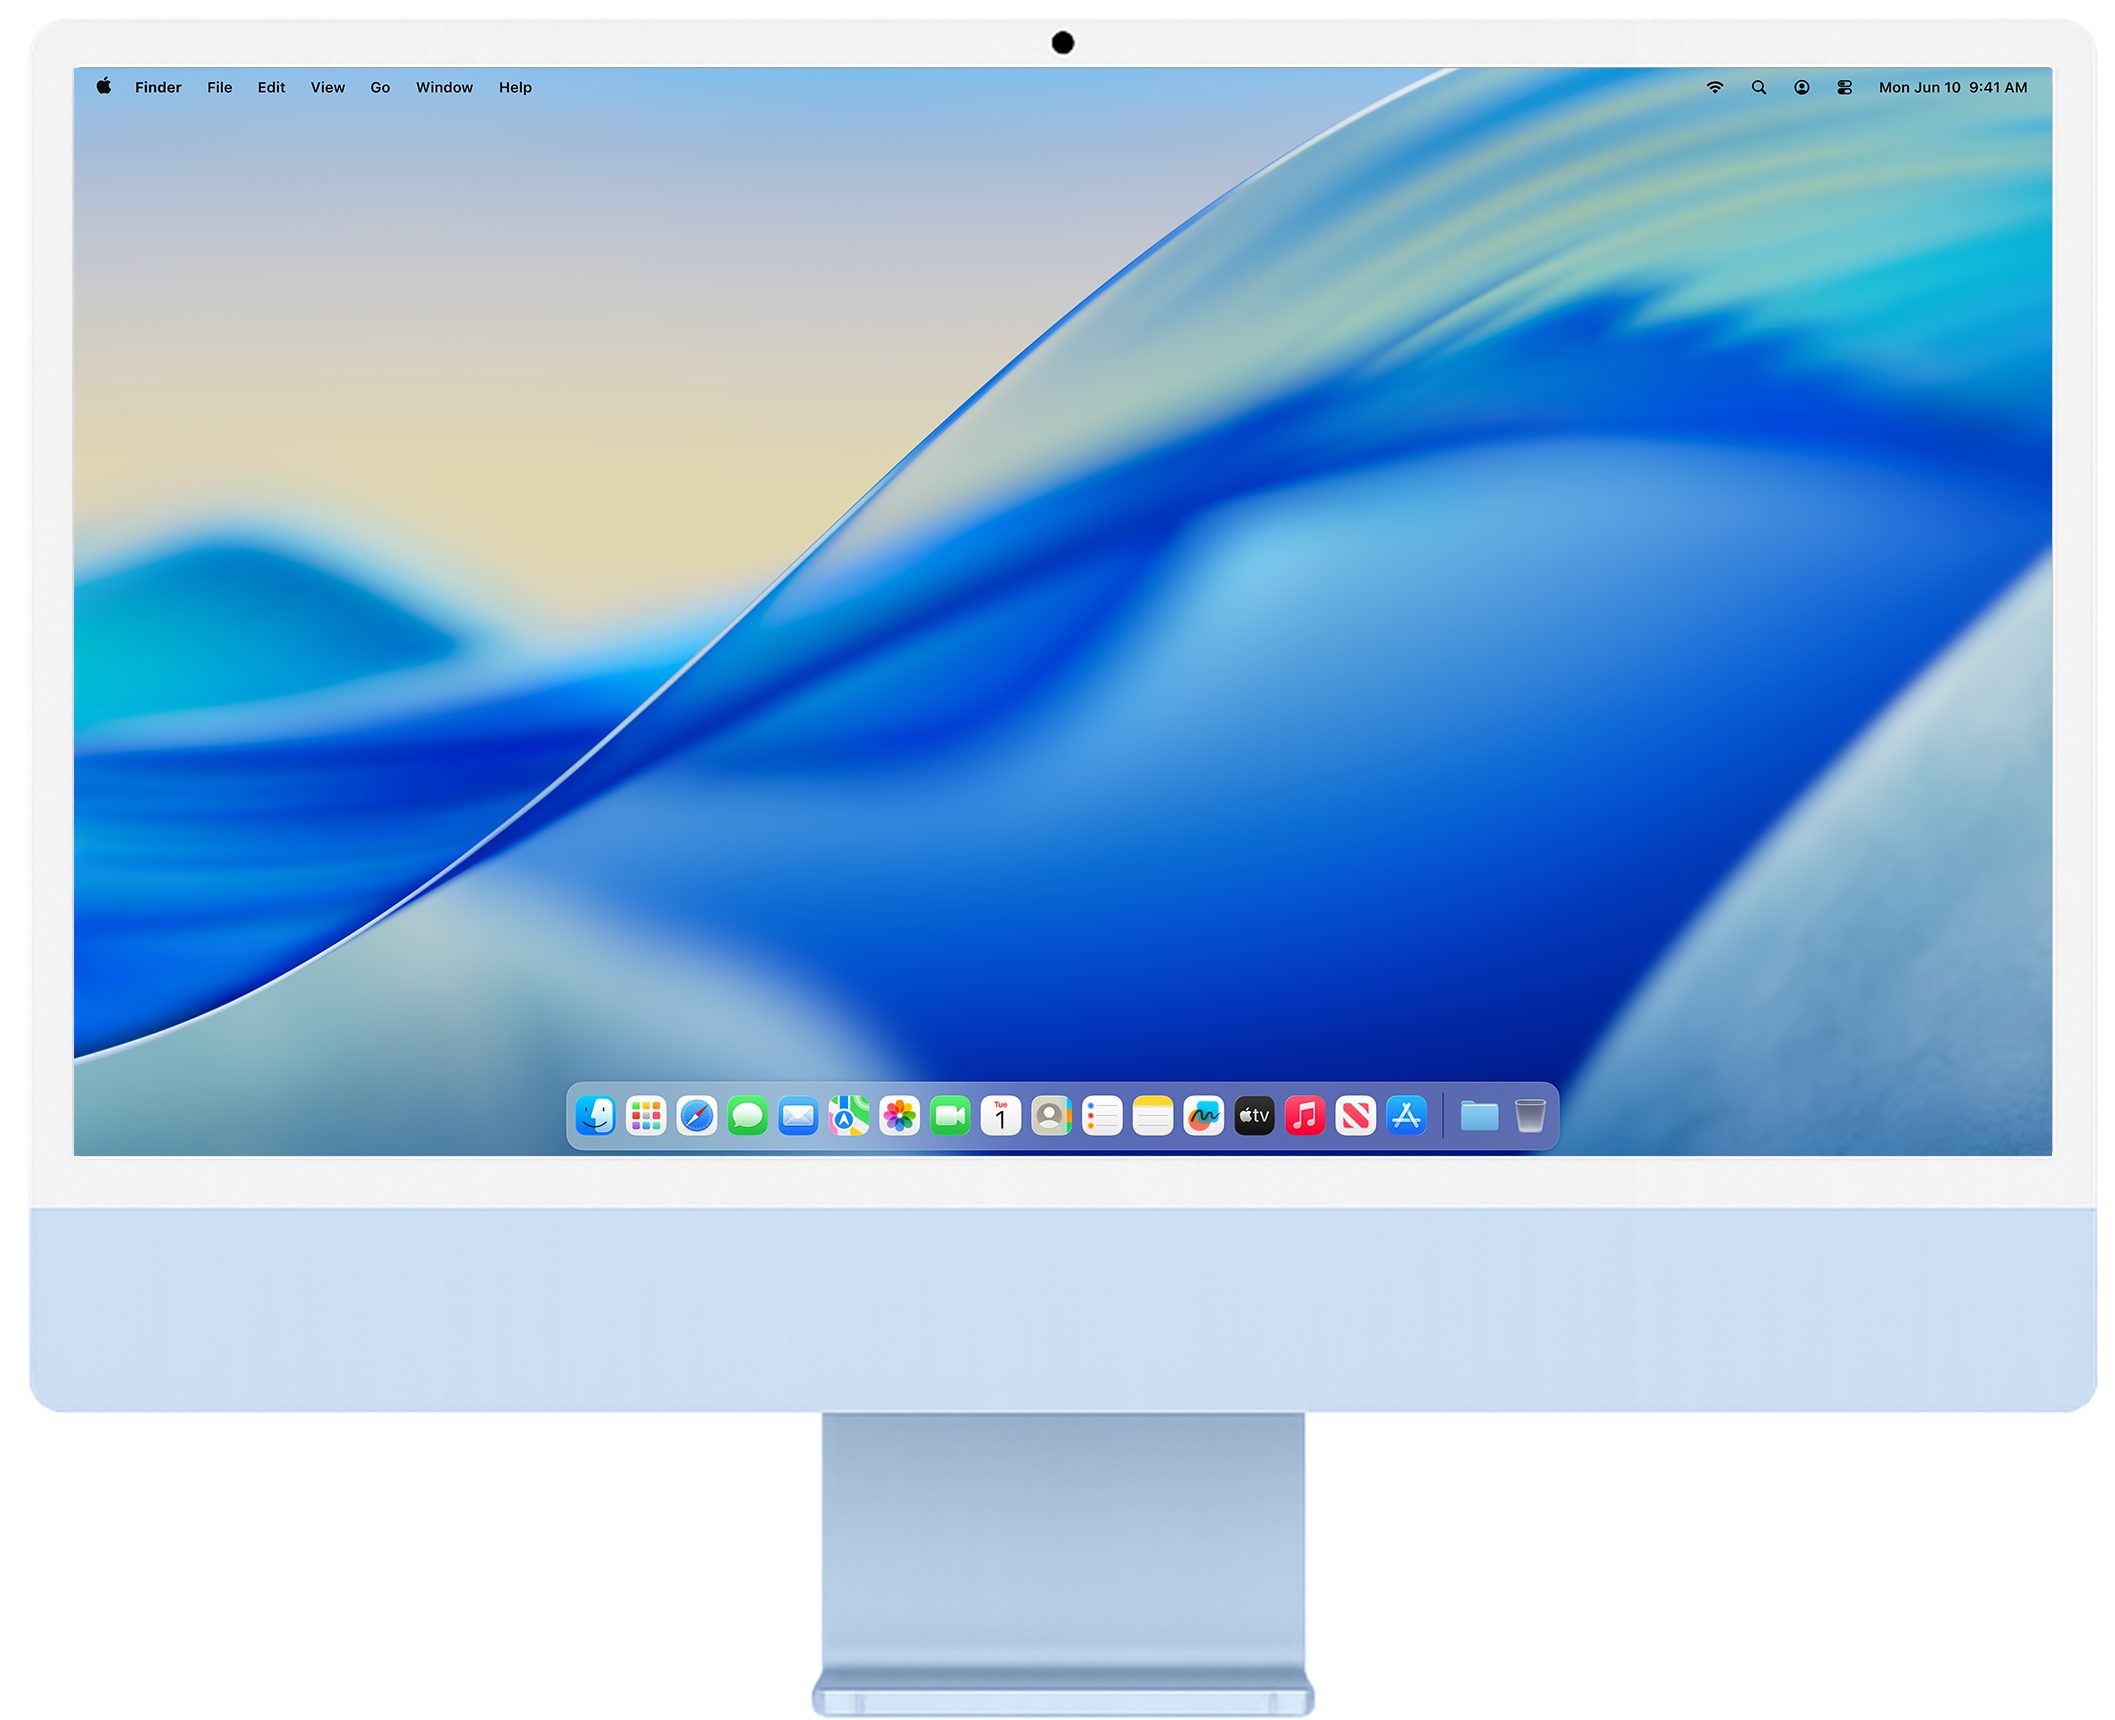
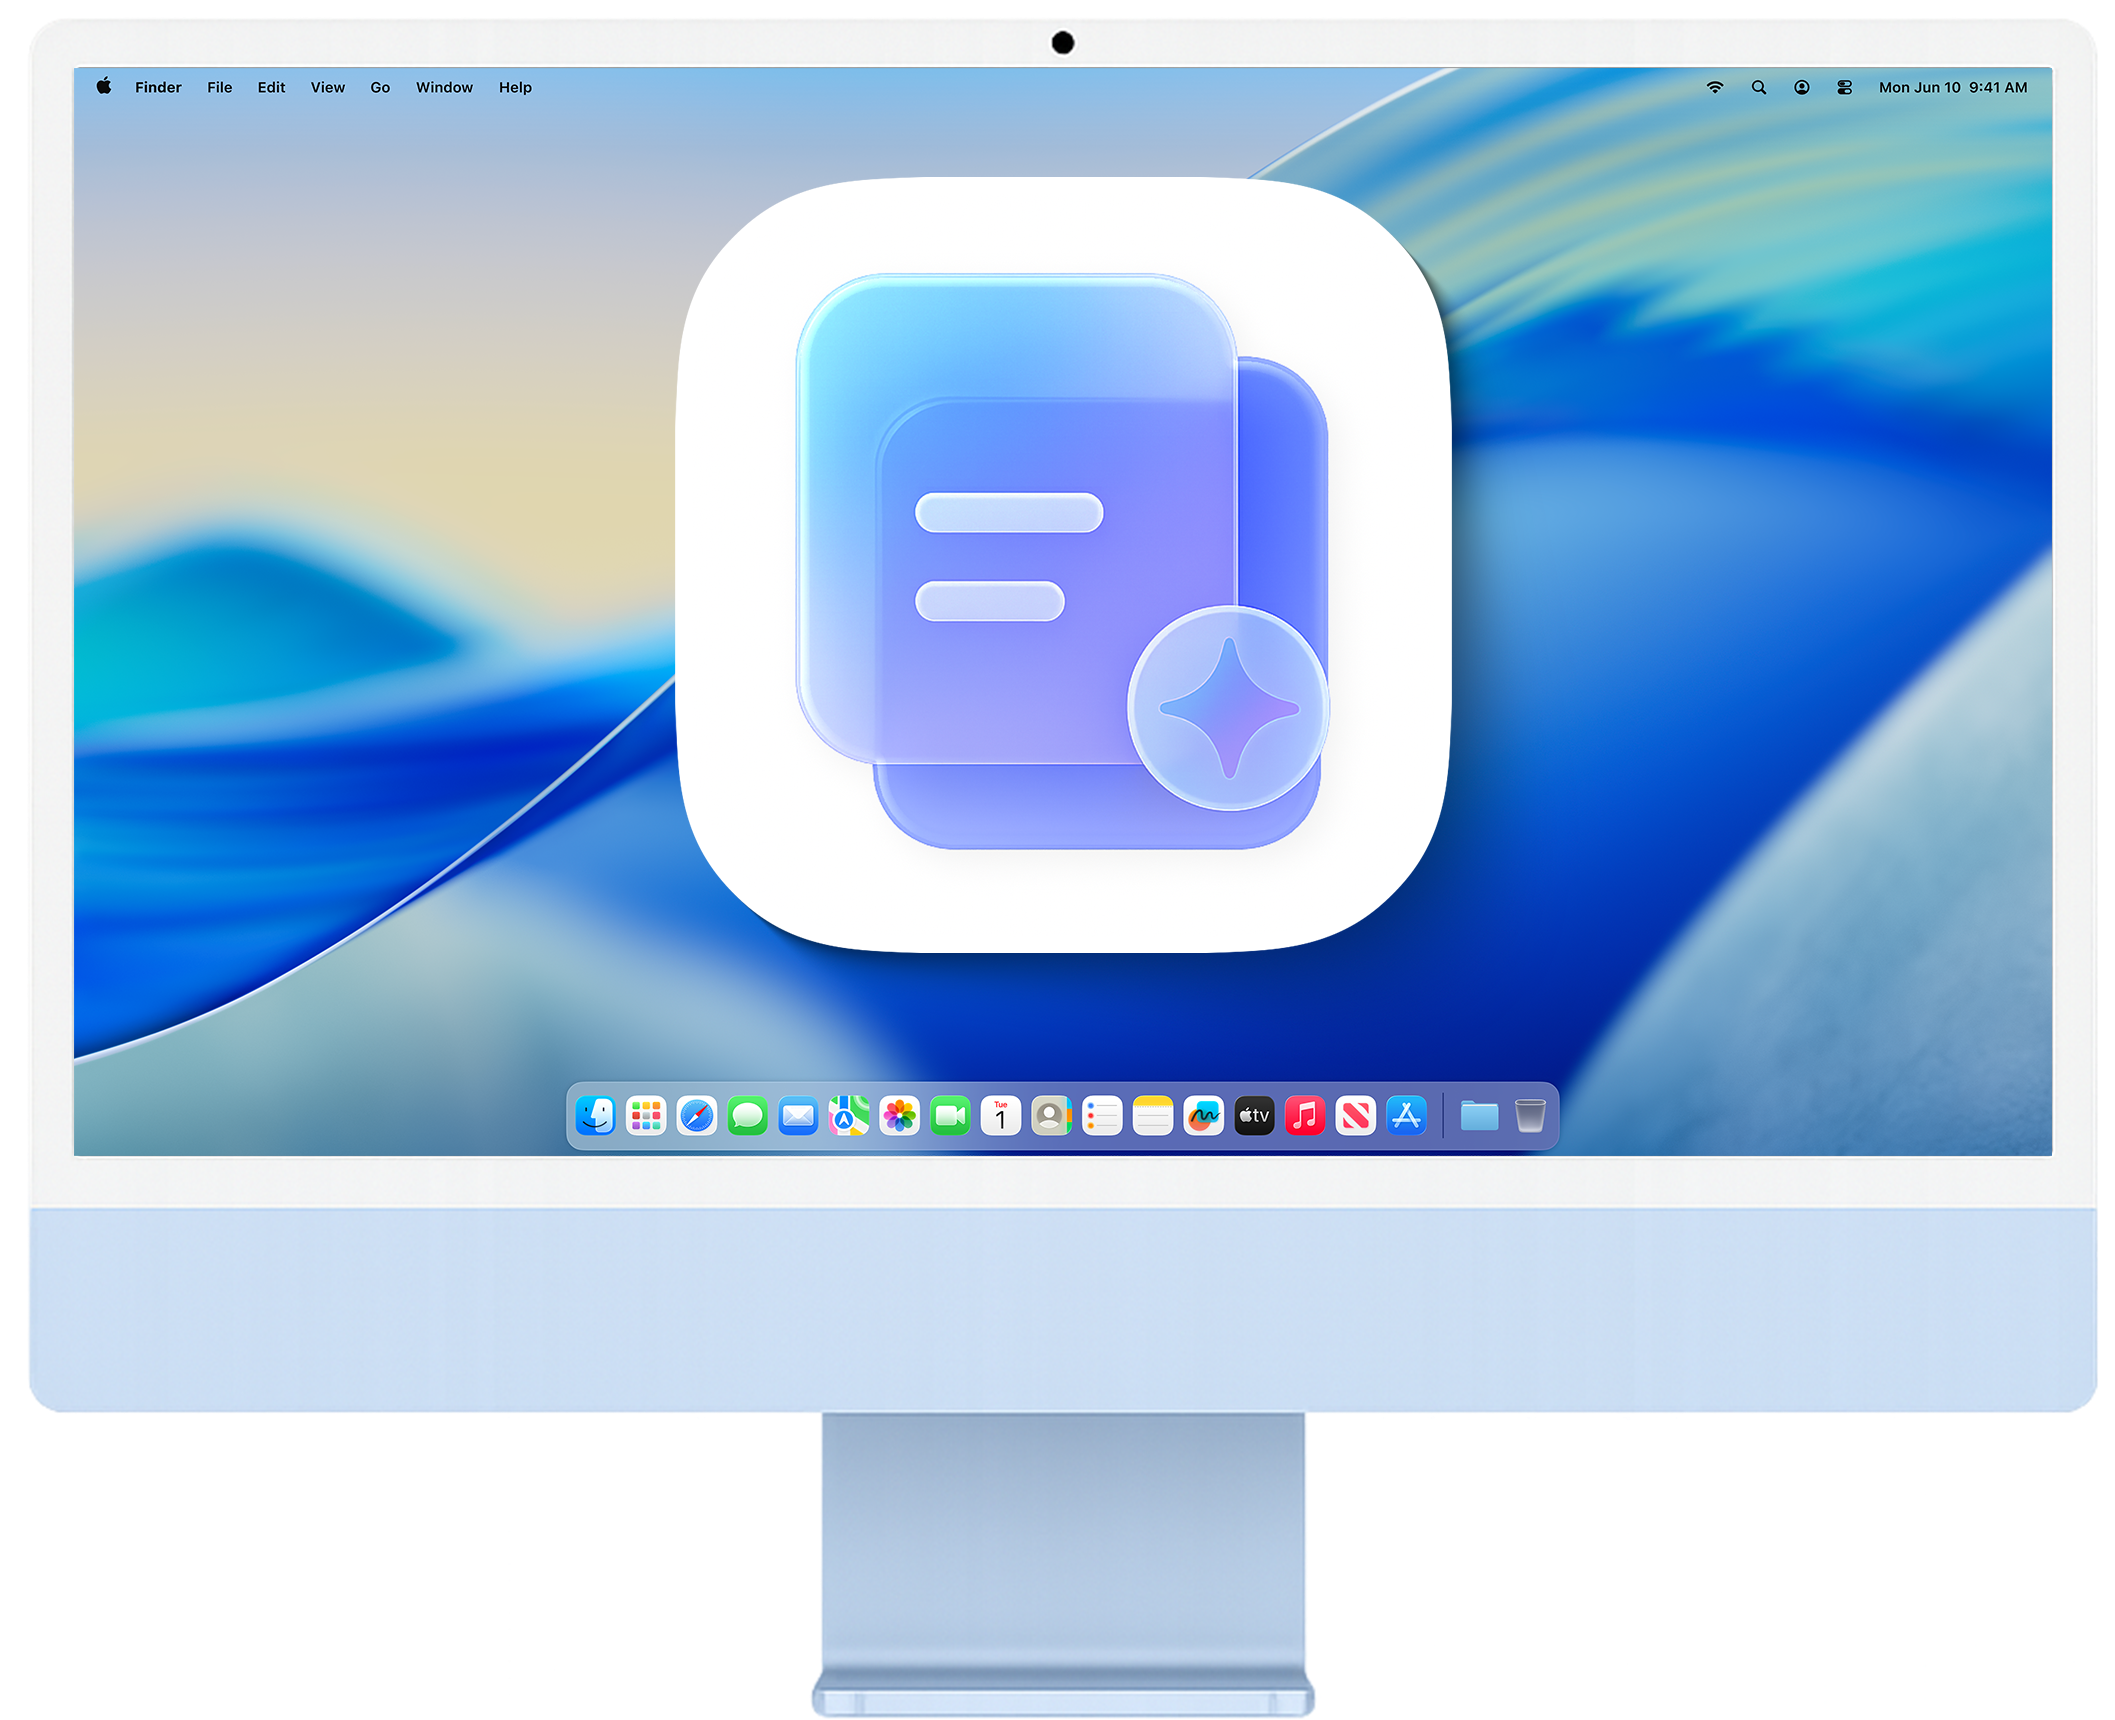
done

Changed region(s): [[0.3121, 0.0924, 0.7177, 0.5855]]

diff --git a/src/components/experienceListPage.css b/src/components/experienceListPage.css
@@ -113,6 +113,54 @@
   display: inline-block;
 }
 
+/* =========================================
+   窄屏适配 - 防止实习详情文字被裁切
+   ========================================= */
+@media (max-width: 768px) {
+  .company-list-container {
+    padding: 0 5%;
+    gap: 30px;
+  }
+
+  .company-text-mask {
+    font-size: clamp(1.4rem, 5vw, 2rem);
+    line-height: 1.3;
+  }
+
+  .reveal-content {
+    flex-direction: column;
+    gap: 0.3rem;
+    padding: 5px 0;
+  }
+
+  .intern-position,
+  .intern-time {
+    white-space: normal;
+    word-break: break-word;
+    font-size: clamp(1rem, 3.5vw, 1.4rem);
+  }
+}
+
+@media (max-width: 480px) {
+  .company-list-container {
+    padding: 0 4%;
+    gap: 24px;
+  }
+
+  .company-text-mask {
+    font-size: clamp(1.2rem, 5.5vw, 1.6rem);
+  }
+
+  .reveal-content {
+    gap: 0.2rem;
+  }
+
+  .intern-position,
+  .intern-time {
+    font-size: clamp(0.85rem, 3.8vw, 1.1rem);
+  }
+}
+
 /* 移除了旧的内部 mask，防止双层裁剪影响性能 */
 .company-text-mask {
   font-family: -apple-system, BlinkMacSystemFont, "Helvetica Neue", Helvetica, "PingFang SC", "Hiragino Sans GB", "华文黑体", "STHeiti", "Segoe UI", Arial, "Microsoft YaHei", "微软雅黑", sans-serif !important;